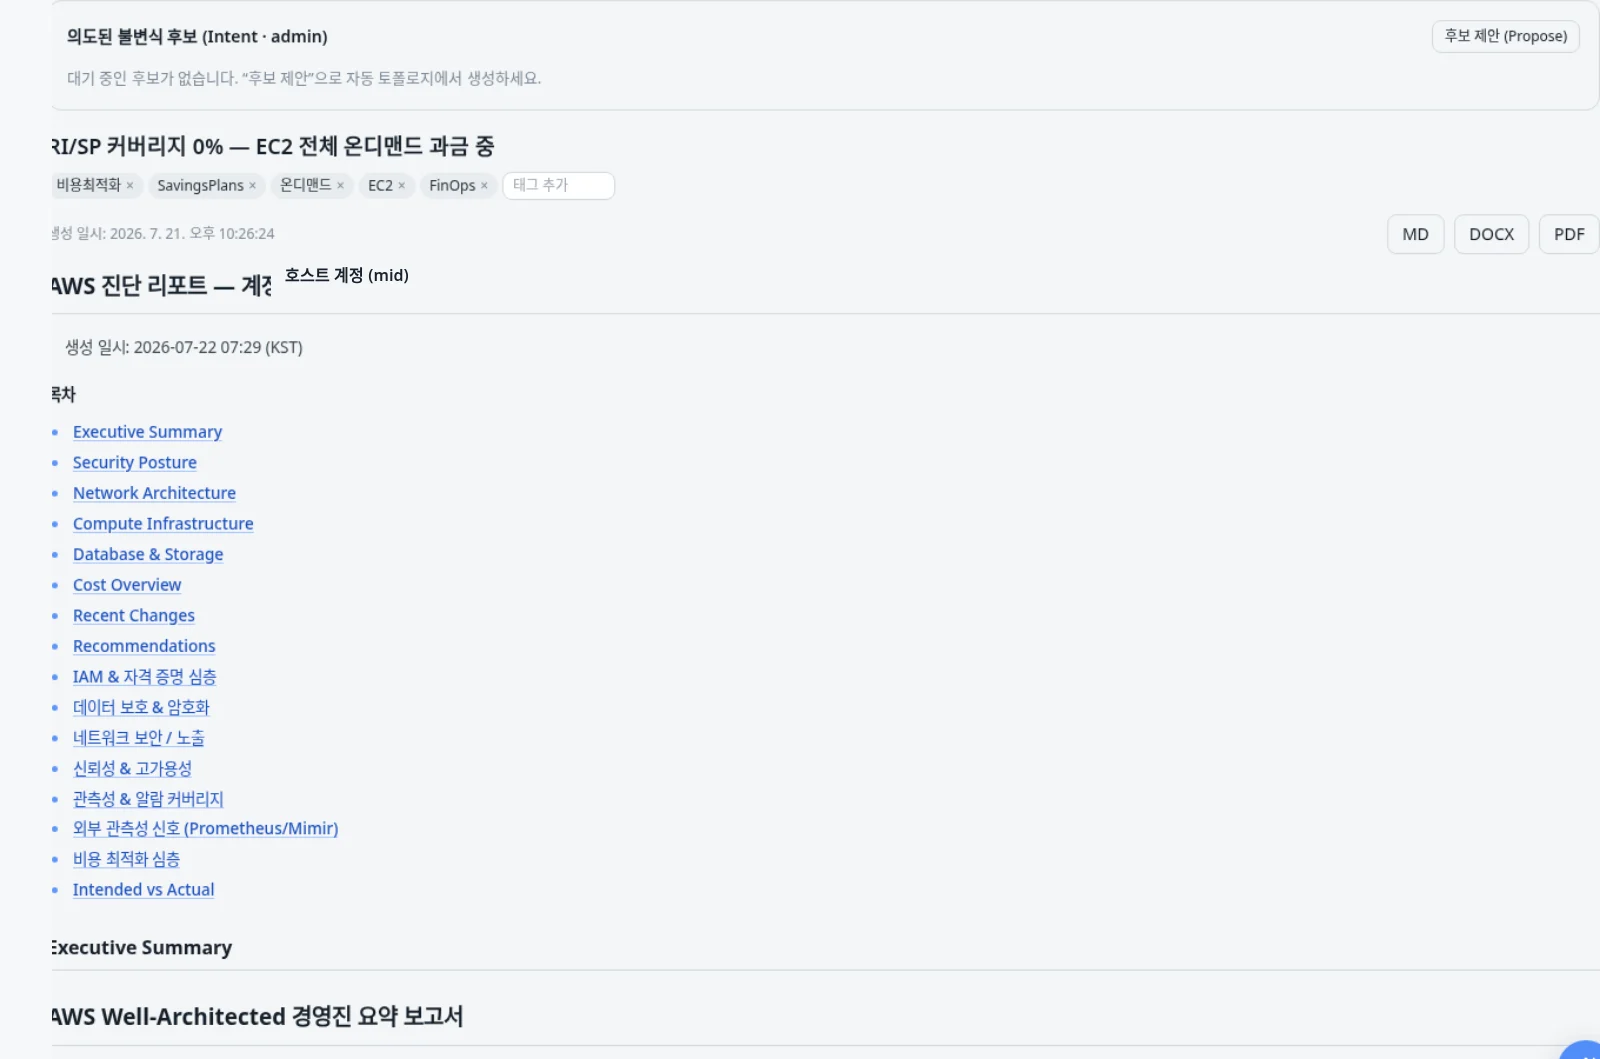
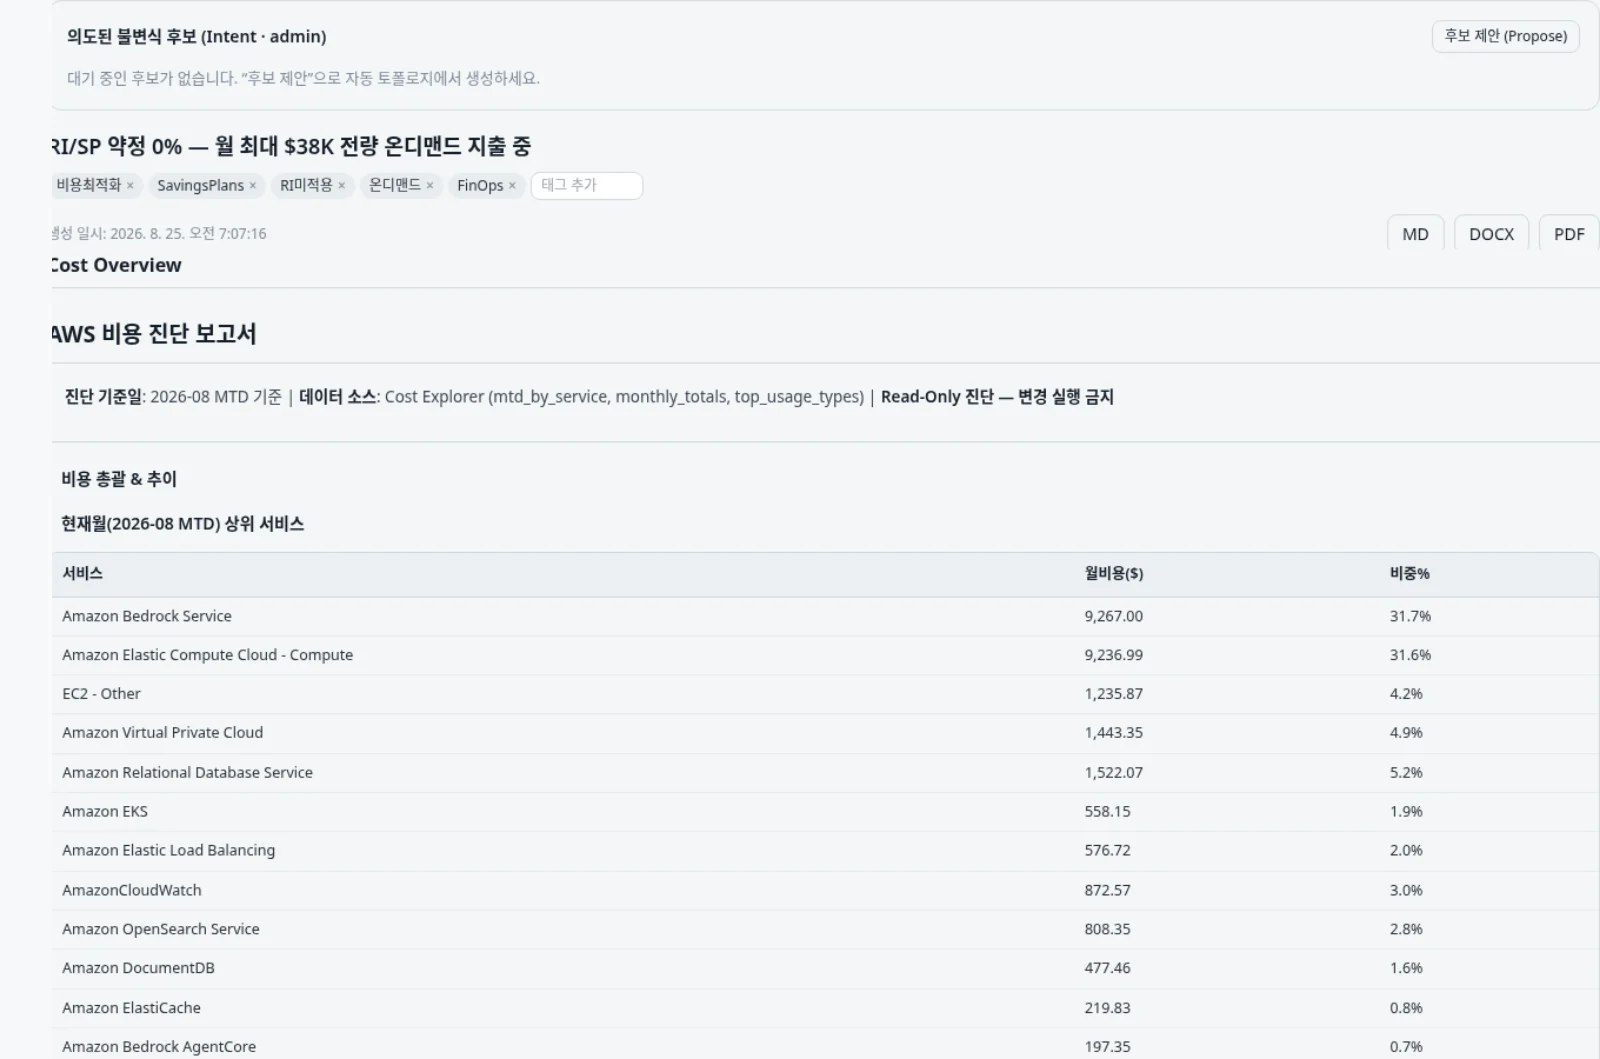
fix(docs): re-arm the showcase privacy gate for the recaptured ai-diagnosis.png
PR #247 review MAJOR: replacing ai-diagnosis.png without touching
showcase-assets.ts left the SHA-256 pin (e902a1..., 1920x1080) pointing at
a file that no longer exists — assertSourceMatchesSpec and the test suite
fail closed, and build-showcase-media refuses to regenerate
ai-diagnosis.webp. Re-validated everything against the new pixels:

- Spec: new sourceSha256 (0d6837...) and per-asset sourceHeight 1040 (the
  recapture is 40px shorter). validateAssetSpecs now validates each crop
  against ITS OWN declared dimensions instead of a fleet-wide 1920x1080
  argument — the declared-vs-actual truth stays enforced by
  assertSourceMatchesSpec (hash + IHDR dims).
- Privacy overlays, re-verified pixel-by-pixel: the recaptured report (cost
  diagnosis) contains no account identifier anywhere inside the crop, so the
  old '호스트 계정 (mid)' mask (which covered an account ID the previous
  report header displayed) is removed — it had nothing left to cover and
  would have blanked real report text. The left-sliver panel cover stays,
  with its sample moved onto the "제거" button text (the old (10,10) point
  is plain background in the new capture).
- Suite rot fixed (these tests aren't wired into CI, and 3 of 9 were already
  failing on main before this PR): the topology label list gained the second
  branch's Target group/Healthy targets duplicates; the obsolete
  right-edge>=932 invariant from the old single-column layout became a
[…]

diff --git a/docs-site/scripts/showcase-assets.ts b/docs-site/scripts/showcase-assets.ts
@@ -44,17 +44,17 @@ export const ASSETS: AssetSpec[] = [
       {
         left: 8, top: 976, width: 230, height: 48,
         fill: '#f4f6f8', text: '#526173', label: 'Demo operator',
-        sample: {left: 40, top: 995},
+        sample: {left: 17, top: 1015},
       },
       {
         left: 828, top: 167, width: 534, height: 201,
         fill: '#fff', text: '#526173', label: 'Recent AI conversation',
-        sample: {left: 900, top: 230},
+        sample: {left: 920, top: 201},
       },
       {
         left: 1378, top: 167, width: 504, height: 201,
         fill: '#fff', text: '#526173', label: 'AI analysis',
-        sample: {left: 1450, top: 230},
+        sample: {left: 1436, top: 201},
       },
     ],
   },
@@ -80,12 +80,12 @@ export const ASSETS: AssetSpec[] = [
       {
         left: 330, top: 26, width: 278, height: 44,
         fill: '#e8f8ee', text: '#17362b', label: 'DNS endpoint',
-        sample: {left: 400, top: 44},
+        sample: {left: 468, top: 30},
       },
       {
         left: 185, top: 186, width: 276, height: 46,
         fill: '#eaf1ff', text: '#1f3763', label: 'CloudFront',
-        sample: {left: 260, top: 206},
+        sample: {left: 321, top: 192},
       },
       {
         left: 620, top: 349, width: 282, height: 44,
@@ -95,22 +95,22 @@ export const ASSETS: AssetSpec[] = [
       {
         left: 480, top: 510, width: 270, height: 42,
         fill: '#f2e9ff', text: '#3e2a5c', label: 'Target group',
-        sample: {left: 560, top: 528},
+        sample: {left: 613, top: 511},
       },
       {
         left: 773, top: 510, width: 270, height: 42,
         fill: '#f2e9ff', text: '#3e2a5c', label: 'Target group',
-        sample: {left: 853, top: 528},
+        sample: {left: 906, top: 511},
       },
       {
         left: 480, top: 670, width: 270, height: 42,
         fill: '#e5f8f5', text: '#173d38', label: 'Healthy targets',
-        sample: {left: 560, top: 688},
+        sample: {left: 490, top: 673},
       },
       {
         left: 773, top: 670, width: 270, height: 42,
         fill: '#e5f8f5', text: '#173d38', label: 'Healthy targets',
-        sample: {left: 853, top: 688},
+        sample: {left: 1031, top: 673},
       },
     ],
   },
@@ -137,8 +137,10 @@ export const ASSETS: AssetSpec[] = [
   {
     source: path.join(SCREENSHOTS, 'operations', 'ai-diagnosis.png'),
     sourceWidth: 1920,
-    sourceHeight: 1080,
[1 lines of base64/hex data omitted]
+    // Recaptured 2026-08-28 (PR #247) at 1920x1040 — 40px shorter than the other sources, hence
+    // per-asset dimensions in validateAssetSpecs. Crop bottom 128+900=1028 stays inside 1040.
+    sourceHeight: 1040,
[1 lines of base64/hex data omitted]
     output: 'ai-diagnosis.webp',
     // left shifted 40px earlier (was 568) so the video's Ken Burns zoom-in has a margin to eat
     // into before it reaches the "AWS 진단 리포트" heading, which otherwise sits flush against
@@ -146,16 +148,18 @@ export const ASSETS: AssetSpec[] = [
     crop: {left: 528, top: 128, width: 1360, height: 900},
     outputWidth: 1600,
     overlays: [
+      // The recaptured report (cost diagnosis) shows no account identifier anywhere inside the
+      // crop (verified pixel-by-pixel against the new source) — the old '호스트 계정 (mid)'
+      // mask covered an account ID the previous capture's report header displayed; it has no
+      // pixels to cover now and re-adding it would blank real report text.
       {
-        left: 230, top: 214, width: 275, height: 42,
-        fill: '#f4f6f8', text: '#18212d', label: '호스트 계정 (mid)',
-        sample: {left: 418, top: 235},
-      },
-      {
-        // Hides the sliver of the page's secondary settings panel exposed by the wider crop.
+        // Hides the sliver of the page's secondary settings panel (mailing-list "제거" button
+        // fragment) exposed by the wider crop. Sample sits on the dark button text at
+        // crop-rel (42,120) — the old (10,10) point is plain page background in the new
+        // capture, which the generator test rejects as "source sample unexpectedly matches fill".
         left: 0, top: 0, width: 44, height: 900,
         fill: '#f7f8fa', text: '#f7f8fa',
-        sample: {left: 10, top: 10},
+        sample: {left: 42, top: 120},
       },
     ],
   },
@@ -213,11 +217,11 @@ export function assertSourceMatchesSpec(asset: AssetSpec, source: Buffer): void 
   }
 }
 
-export function validateAssetSpecs(
-  sourceWidth: number,
-  sourceHeight: number,
-  assets: AssetSpec[] = ASSETS,
-): void {
+// Validates each spec against ITS OWN declared source dimensions (per-asset since PR #247's
+// 1920x1040 ai-diagnosis recapture — the fleet is no longer uniformly 1080p). Whether the
+// declared dimensions match the actual on-disk PNG is enforced separately, fail-closed, by
+// assertSourceMatchesSpec (hash + IHDR dims).
+export function validateAssetSpecs(assets: AssetSpec[] = ASSETS): void {
   const outputs = new Set<string>();
   for (const asset of assets) {
     if (outputs.has(asset.output)) {
@@ -236,18 +240,12 @@ export function validateAssetSpecs(
     if (!/^[a-f0-9]{64}$/.test(asset.sourceSha256)) {
       throw new Error(`invalid source SHA-256: ${asset.output}`);
     }
-    if (asset.sourceWidth !== sourceWidth || asset.sourceHeight !== sourceHeight) {
-      throw new Error(
-        `unexpected source dimensions for ${asset.output}: expected ${sourceWidth}x${sourceHeight}`,
-      );
-    }
-
     const {crop} = asset;
     if (
       crop.left < 0 ||
       crop.top < 0 ||
-      crop.left + crop.width > sourceWidth ||
-      crop.top + crop.height > sourceHeight
+      crop.left + crop.width > asset.sourceWidth ||
+      crop.top + crop.height > asset.sourceHeight
     ) {
       throw new Error(`crop outside source: ${asset.output}`);
     }

diff --git a/docs-site/scripts/showcase-assets.test.ts b/docs-site/scripts/showcase-assets.test.ts
@@ -46,14 +46,14 @@ test('showcase asset outputs are unique WebP files', () => {
     const asset = cloneAsset(ASSETS[0]);
     asset.output = output;
     assert.throws(
-      () => validateAssetSpecs(1920, 1080, [asset]),
+      () => validateAssetSpecs([asset]),
       /invalid WebP output basename/,
     );
   }
 });
 
 test('all crops and privacy overlays are valid', () => {
-  assert.doesNotThrow(() => validateAssetSpecs(1920, 1080));
+  assert.doesNotThrow(() => validateAssetSpecs());
   for (const asset of ASSETS) {
     assert.ok(asset.outputWidth <= 1600);
     for (const overlay of asset.overlays) {
@@ -75,21 +75,21 @@ test('output width and crop dimensions are positive finite integers', () => {
     const invalidOutput = cloneAsset(ASSETS[0]);
     invalidOutput.outputWidth = invalid;
     assert.throws(
-      () => validateAssetSpecs(1920, 1080, [invalidOutput]),
+      () => validateAssetSpecs([invalidOutput]),
       /outputWidth must be a positive finite integer/,
     );
 
     const invalidCropWidth = cloneAsset(ASSETS[0]);
     invalidCropWidth.crop.width = invalid;
     assert.throws(
-      () => validateAssetSpecs(1920, 1080, [invalidCropWidth]),
+      () => validateAssetSpecs([invalidCropWidth]),
       /crop width must be a positive finite integer/,
     );
 
     const invalidCropHeight = cloneAsset(ASSETS[0]);
     invalidCropHeight.crop.height = invalid;
     assert.throws(
-      () => validateAssetSpecs(1920, 1080, [invalidCropHeight]),
+      () => validateAssetSpecs([invalidCropHeight]),
       /crop height must be a positive finite integer/,
     );
   }
@@ -98,7 +98,9 @@ test('output width and crop dimensions are positive finite integers', () => {
 test('source dimensions and SHA-256 match the approved PNGs', () => {
   for (const asset of ASSETS) {
     assert.equal(asset.sourceWidth, 1920);
-    assert.equal(asset.sourceHeight, 1080);
+    // Heights are per-asset since PR #247 (ai-diagnosis recaptured at 1040); the declared value
+    // is verified against the actual PNG IHDR below, so no fixed constant here.
+    assert.ok(Number.isInteger(asset.sourceHeight) && asset.sourceHeight > 0);
     assert.match(asset.sourceSha256, /^[a-f0-9]{64}$/);
     const source = fs.readFileSync(path.join(siteRoot, asset.source));
     assert.doesNotThrow(() => assertSourceMatchesSpec(asset, source));
@@ -126,17 +128,28 @@ test('source identity mismatches fail closed', () => {
 test('topology and diagnosis have baked-in identifier replacements', () => {
   const topology = ASSETS.find((asset) => asset.output === 'topology.webp');
   const diagnosis = ASSETS.find((asset) => asset.output === 'ai-diagnosis.webp');
+  // The topology mock-up gained a second branch (two target groups, two healthy-target boxes)
+  // in the product-tour rework — this list rotted because the suite isn't wired into CI.
   assert.deepEqual(
     topology?.overlays.map((overlay) => overlay.label),
-    ['DNS endpoint', 'CloudFront', 'Load balancer', 'Target group', 'Healthy targets'],
+    ['DNS endpoint', 'CloudFront', 'Load balancer',
+      'Target group', 'Target group', 'Healthy targets', 'Healthy targets'],
   );
-  assert.equal(diagnosis?.overlays[0]?.label, '호스트 계정 (mid)');
+  // PR #247's recapture shows no account identifier inside the diagnosis crop (verified against
+  // the new pixels), so the old '호스트 계정 (mid)' identifier mask is gone by design — the one
+  // remaining overlay is the unlabeled left-sliver panel cover.
+  assert.deepEqual(diagnosis?.overlays.map((overlay) => overlay.label), [undefined]);
 });
 
 test('topology overlays cover the complete resource label area', () => {
   const topology = ASSETS.find((asset) => asset.output === 'topology.webp');
   assert.ok(topology);
-  assert.ok(topology.overlays.every((overlay) => overlay.left + overlay.width >= 932));
+  // The old invariant (right edge >= x932) came from the single-column layout where every node
+  // label ended at the same x — the current two-branch layout scatters nodes, so the durable
+  // invariant is that each replacement box is at least node-label sized (270x42, the smallest
+  // node box in the mock-up). Whether each box actually lands on its node is verified by the
+  // generator test's source-sample-differs-from-fill check.
+  assert.ok(topology.overlays.every((overlay) => overlay.width >= 270 && overlay.height >= 42));
 });
 
 test('privacy overlay samples are source-relative points inside their overlays', () => {
@@ -158,7 +171,7 @@ test('privacy overlay samples are source-relative points inside their overlays',
     top: invalid.overlays[0].top,
   };
   assert.throws(
-    () => validateAssetSpecs(1920, 1080, [invalid]),
+    () => validateAssetSpecs([invalid]),
     /overlay sample outside overlay/,
   );
 });

diff --git a/docs-site/scripts/build-showcase-media.ts b/docs-site/scripts/build-showcase-media.ts
@@ -15,7 +15,7 @@ const defaultOutputDir = path.join(siteRoot, 'static', 'showcase', 'media');
 export async function buildShowcaseMedia(
   outputDir: string = defaultOutputDir,
 ): Promise<void> {
-  validateAssetSpecs(1920, 1080);
+  validateAssetSpecs();
 
   const sources = ASSETS.map((asset) => {
     const sourcePath = path.join(siteRoot, asset.source);
